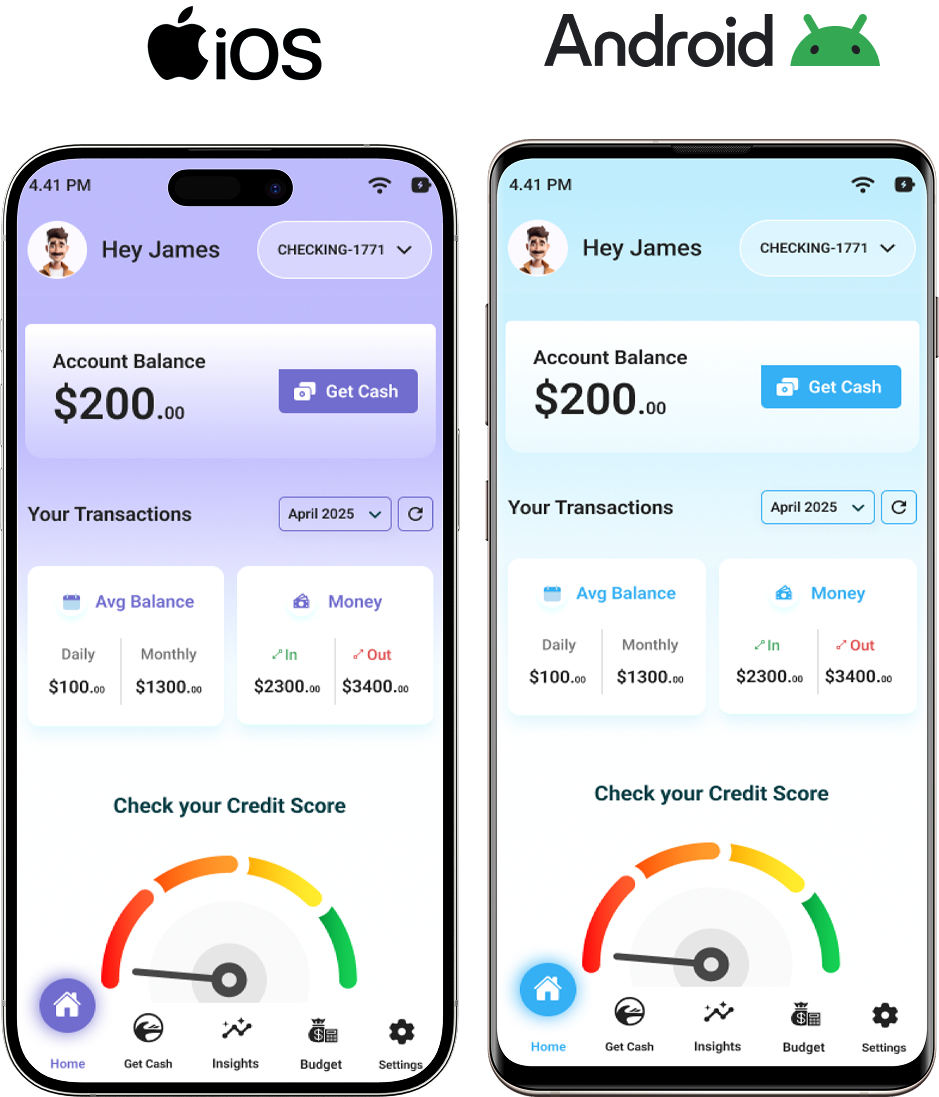
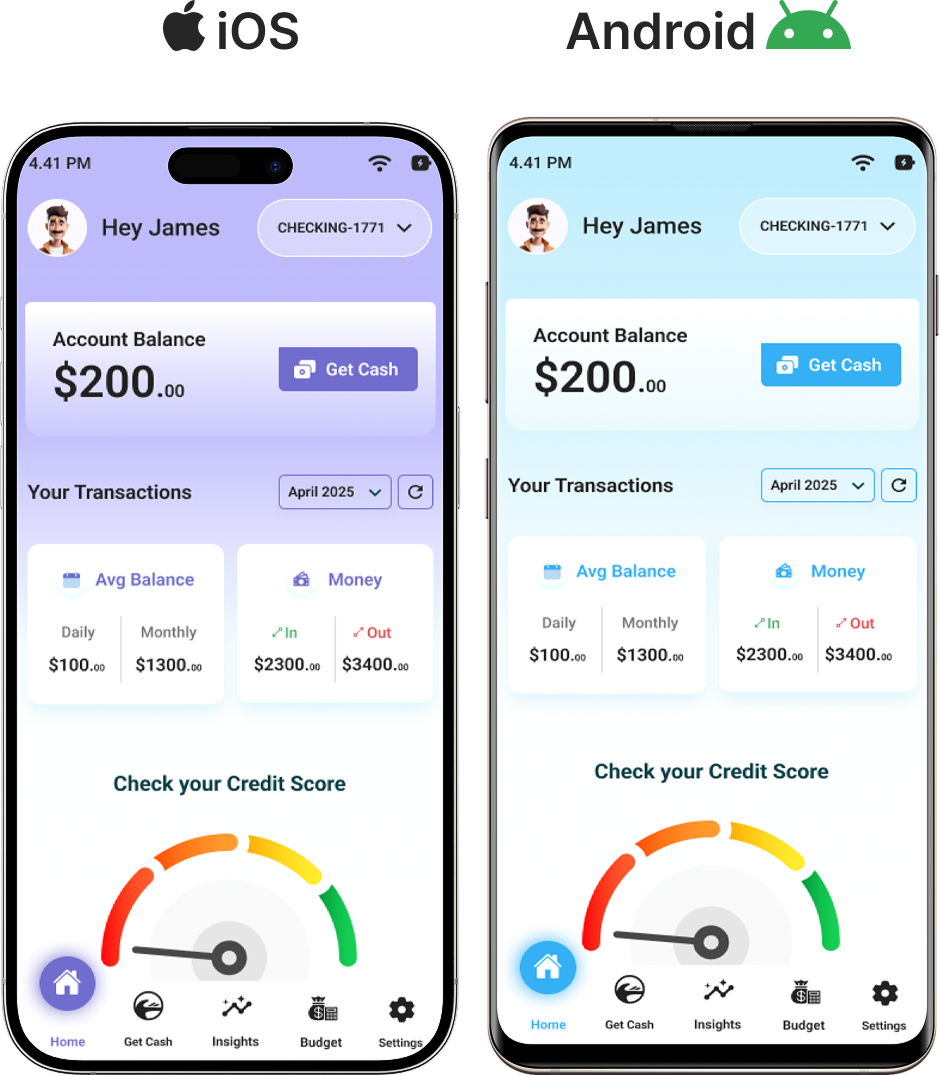
content & design changes 3nd jan design and theme changes

diff --git a/whitelabel.html b/whitelabel.html
@@ -179,7 +179,8 @@
           </div>
           <!-- right colom -->
           <div class="col-lg-6">
-            <img src="images/ios&android.png" alt="images" class="h-w-imgs">
+            <img src="images/ios&android.png" alt="images" class="h-w-imgs overlay-light" >
+            <img src="images/ios&android-dark.png" alt="images" class="h-w-imgs overlay-dark" >
           </div>
         </div>
       </div>
